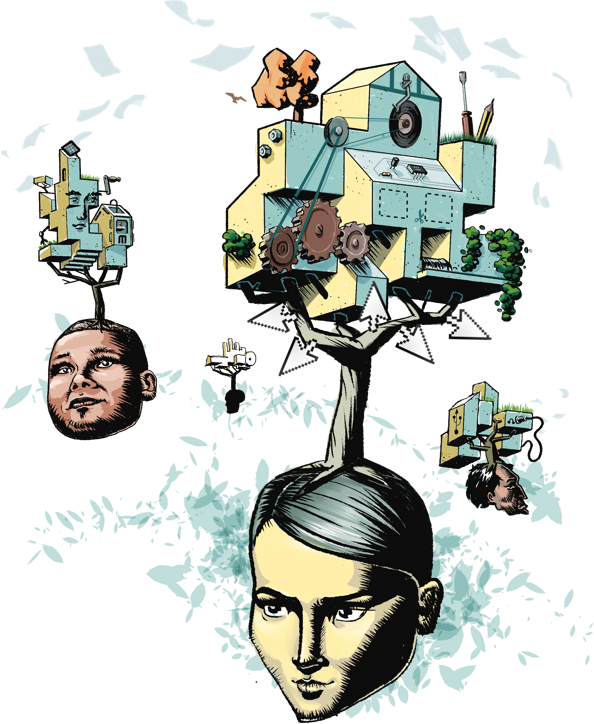
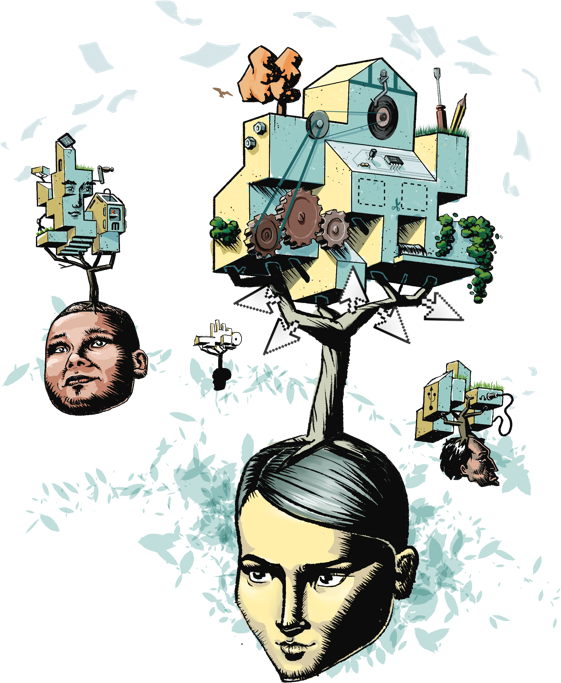
New home elements.

diff --git a/app/styles.scss b/app/styles.scss
@@ -46,6 +46,9 @@ body, html {
 }
 
 body.page-template-page-home {
+  header, footer {
+    display: none;
+  }
   div#front {
     position: absolute;
     left: 0;
@@ -53,26 +56,38 @@ body.page-template-page-home {
     cursor: pointer;
     width: 100%;
     height: 100%;
-    background: url("../img/home-bg.png") 97.5% center / auto 80% no-repeat;
+    //background: url("../img/home-bg.png") 97.5% center / auto 90% no-repeat;
     background-color: #44A59C;
     transition: all 2s ease-out 0s;
     z-index: 1000;
     &.gone {
       left: -100%;
     }
+    #tree {
+      position: absolute;
+      top: 2%;
+      right: 5%;
+      width: auto;
+      height: 75%;
+    }
     img#logo {
       margin: 5% 0 0 5%;
       max-width: 80%;
       max-height: 70%;
     }
-    img#welcome {
+    #welcome {
       position: absolute;
-      bottom: 2.5%;
-      right: 2.5%;
+      top: 75%;
+      left: 52.5%;
       max-width: 60%;
+      display: inline;
+    }
+    #arrow {
       animation-duration: 2s;
+      vertical-align: bottom;
+      margin-left: 16px;
       //animation-delay: 5s;
-      //animation-iteration-count: infinite;
+      animation-iteration-count: infinite;
     }
   }
   div#back {

diff --git a/app/variables.scss b/app/variables.scss
@@ -1,9 +1,9 @@
 // Global variables
 
-$COLOR1: #F4945C;
-$COLOR2: #F8AD9D;
-$COLOR3: #3AA59C;
-$COLOR4: #B9D0D3;
+$COLOR1: #EFB900;
+$COLOR2: #A9C339;
+$COLOR3: #DD6C2E;
+$COLOR4: #24A2A0;
 $COLOR5: #F19551;
 
 $COLOR1_1: lighten($COLOR1, 40%);

diff --git a/page-home.php b/page-home.php
@@ -14,8 +14,12 @@ function first_word($str) {
 $img = get_stylesheet_directory_uri() . '/public/img';
 ?>
 <div id="front">
-    <img id="logo" src="<?php echo $img ?>/home-logo.svg">
-    <img id="welcome" src="<?php echo $img ?>/home-welcome.png" class="">
+    <img id="logo" src="<?php echo $img ?>/home-logo.png">
+    <img id="tree" src="<?php echo $img ?>/home-bg.png">
+    <div id="welcome">
+        <img src="<?php echo $img ?>/home-welcome.png" class="">
+        <img id="arrow" src="<?php echo $img ?>/home-welcome-arrow.png" class="animated fadeInLeft">
+    </div>
 </div>
 <div id="back">
 
@@ -64,9 +68,10 @@ $img = get_stylesheet_directory_uri() . '/public/img';
 <script>
     window.$ = jQuery;
     $(function () {
-        $('#welcome').jAnimateSequence(['bounce', 'tada', 'wobble']);
+//        $('#arrow').jAnimateSequence(['fadeOutRight']);
         $('#front').on('click', function () {
             $(this).addClass('animated zoomOutLeft');
+            $('header').fadeIn(2000);
         });
     });
 </script>
